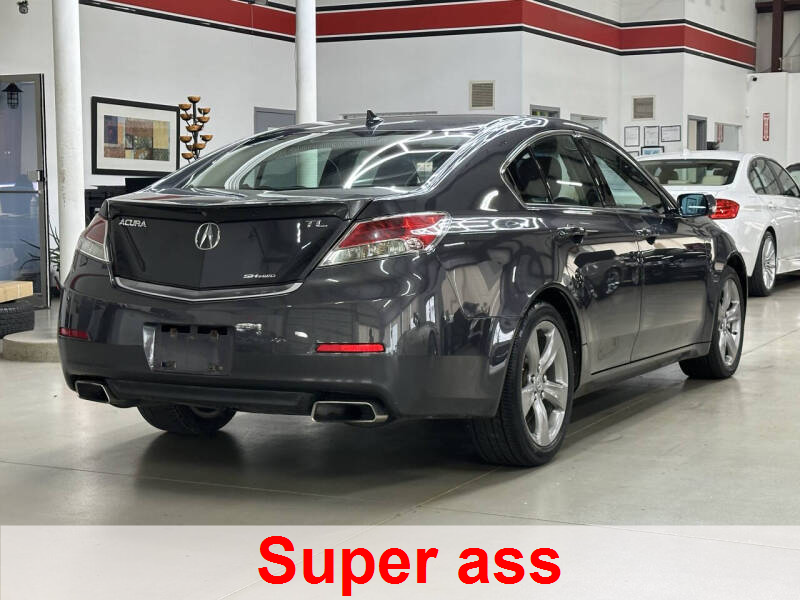
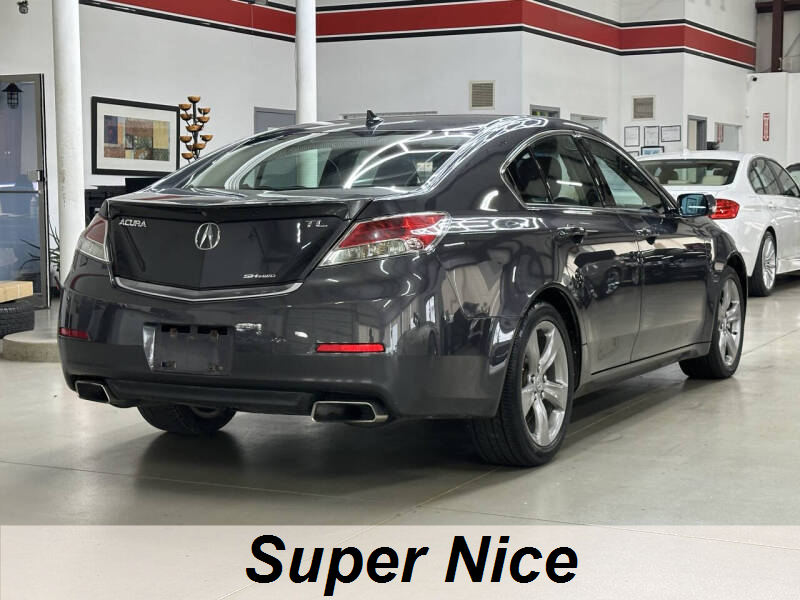
Fixed rgb issue

Changed region(s): [[0.3125, 0.87, 0.7188, 1.0]]

diff --git a/Scripts/majordome.js b/Scripts/majordome.js
@@ -349,9 +349,16 @@ function saveOverlayData() {
     const children = [];
 
     overlay.children().each(function () {
+        const bold = $("#fontType").val().includes("bold") ? "bold" : "normal"
+        const italic = $("#fontType").val().includes("italic") ? "italic" : ""
+
         const tag = this.tagName.toLowerCase();
         const text = $(this).text();
-        const style = $(this).attr("style") || '';
+        const color = `color:${$("#textColor").val()};`;
+        const fontSize = `font-size:${$("#fontSize").val()};`;
+        const fontWeight = `font-weight:${bold};`;
+        const fontStyle = `font-style:${italic};`;
+        const style = `${color}${fontSize}${fontWeight}${fontStyle}`;
 
         children.push({
             tag: tag,

diff --git a/Content/Site.css b/Content/Site.css
@@ -12,7 +12,7 @@
     font-size: 1rem;
     padding: 0.5rem;
     box-sizing: border-box;
-    opacity: 0.6;
+    opacity: 0.6!important;
 }
 
 .overlay-image-container {
